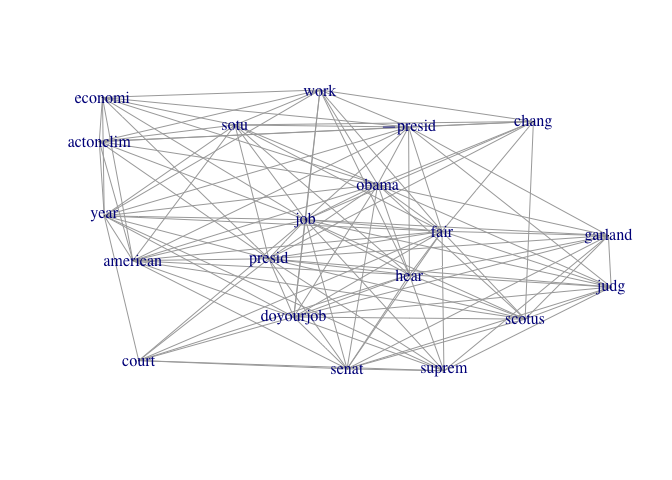
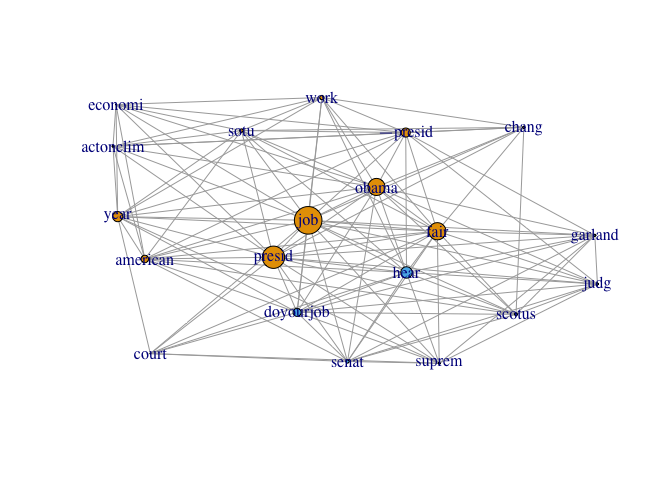
Added modularity and cluster size

Changed region(s): [[0.0938, 0.1562, 0.9375, 0.7812]]

diff --git a/twitter_net.md b/twitter_net.md
@@ -1,4 +1,4 @@
-# Twitter_term_document_matrix
+# Twitter term-document-matrix
 Hagai Levi  
 9 April 2016  
 
@@ -6,6 +6,10 @@ Hagai Levi
 Based on http://www.rdatamining.com/examples/text-mining
 
 
+```r
+setwd('/Users/hagai_lvi/tmp/data_scientist/assignment_3')
+source('./credentials.R')
+```
 
 
 ```r
@@ -13,10 +17,6 @@ library(twitteR)
 
 # set twitter credentials
 setup_twitter_oauth(consumer_key, consumer_secret, access_token, access_token_secret)
-```
-
-```
-## [1] "Using direct authentication"
 ```
 
 Now, we gather tweets of the user BarackObama
@@ -52,7 +52,7 @@ cat(sprintf("Matrix dimensions: %i cols, %i rows", ncol(df), nrow(df)))
 ```
 
 ```
-## Matrix dimensions: 16 cols, 308 rows
+## Matrix dimensions: 16 cols, 312 rows
 ```
 
 ```r
@@ -92,24 +92,24 @@ inspect(myDtm[20:30,20:30])
 
 ```
 ## <<TermDocumentMatrix (terms: 11, documents: 11)>>
-## Non-/sparse entries: 1/120
-## Sparsity           : 99%
+## Non-/sparse entries: 0/121
+## Sparsity           : 100%
 ## Maximal term length: 9
 ## Weighting          : term frequency (tf)
 ## 
-##             Docs
-## Terms        20 21 22 23 24 25 26 27 28 29 30
-##   adult       0  0  0  0  0  0  0  0  0  0  0
-##   advanc      0  0  0  0  0  0  0  0  0  0  0
-##   afford      0  0  0  0  0  0  0  0  0  0  0
-##   ago         0  0  0  0  0  0  0  0  0  0  0
-##   agre        0  0  0  0  0  0  0  0  0  0  0
-##   agreement   0  0  0  0  0  0  0  0  0  1  0
-##   ahead       0  0  0  0  0  0  0  0  0  0  0
-##   ain<U+2019>t  0  0  0  0  0  0  0  0  0  0  0
-##   almost      0  0  0  0  0  0  0  0  0  0  0
-##   also        0  0  0  0  0  0  0  0  0  0  0
-##   alway       0  0  0  0  0  0  0  0  0  0  0
+##                Docs
+## Terms           20 21 22 23 24 25 26 27 28 29 30
+##   ago            0  0  0  0  0  0  0  0  0  0  0
+##   agre           0  0  0  0  0  0  0  0  0  0  0
+##   agreement      0  0  0  0  0  0  0  0  0  0  0
+##   ahead          0  0  0  0  0  0  0  0  0  0  0
+##   ain<U+2019>t     0  0  0  0  0  0  0  0  0  0  0
+##   almost         0  0  0  0  0  0  0  0  0  0  0
+##   alreadi        0  0  0  0  0  0  0  0  0  0  0
+##   also           0  0  0  0  0  0  0  0  0  0  0
+##   alway          0  0  0  0  0  0  0  0  0  0  0
+##   america        0  0  0  0  0  0  0  0  0  0  0
+##   america<U+2019>  0  0  0  0  0  0  0  0  0  0  0
 ```
 
 Display words associated with obama and american
@@ -121,8 +121,8 @@ findAssocs(myDtm, 'obama', 0.30)
 
 ```
 ## $obama
-##       presid <U+2014>presid 
-##         0.66         0.54
+## <U+2014>presid       presid         sotu 
+##         0.61         0.57         0.42
 ```
 
 ```r
@@ -132,8 +132,8 @@ findAssocs(myDtm, 'american', 0.30)
 
 ```
 ## $american
-## httpstcoxtyztaa            auto 
-##            0.41            0.31
+##           cover httpstcoxtyztaa 
+##            0.44            0.44
 ```
 
 Convert to a term matrix
@@ -149,18 +149,18 @@ termDocMatrix[termDocMatrix>=1] <- 1
 termMatrix <- termDocMatrix %*% t(termDocMatrix)
 
 # inspect terms numbered 5 to 10
-termMatrix[5:10,5:10]
+termMatrix[15:20,15:20]
 ```
 
 ```
-##             Terms
-## Terms          <U+2014>take   <U+2014>vp   <U+2019>ll   <U+2019>re   <U+2019>ve abl
-##   <U+2014>take            1          0          0          0          0   0
-##   <U+2014>vp              0          1          1          1          0   0
-##   <U+2019>ll              0          1          3          1          0   0
-##   <U+2019>re              0          1          1          1          0   0
-##   <U+2019>ve              0          0          0          0          2   0
-##   abl                   0          0          0          0          0   2
+##          Terms
+## Terms     add address adult advanc afford ago
+##   add      11       0     0      0      0   0
+##   address   0       4     0      0      0   0
+##   adult     0       0     1      0      0   0
+##   advanc    0       0     0      2      0   0
+##   afford    0       0     0      0      3   0
+##   ago       0       0     0      0      0   3
 ```
 
 The corpus is large, and we can't see clearly a large graph so we are using only a few
@@ -216,3 +216,115 @@ plot(g, layout=lay, vertex.size=5, vertex.color=community$membership, asp=FALSE)
 ```
 
 ![](twitter_net_files/figure-html/unnamed-chunk-7-2.png)
+
+We got 2 communities. The size of each community:
+
+
+```r
+sizes(community)
+```
+
+```
+## Community sizes
+##  1  2 
+## 12  8
+```
+
+The modularity we got:
+
+```r
+modularity(community)
+```
+
+```
+## [1] 0.1143865
+```
+
+We want to show the betweenness of each term: 
+
+```r
+t(betweenness(g))
+```
+
+```
+##         obama   presid   <U+2014>presid     sotu doyourjob     fair    senat
+## [1,] 7.043687 9.198449       3.738528 1.413925  3.307576 7.096068 1.339286
+##      actonclim      job     year     hear     work   garland      judg
+## [1,] 0.6761905 11.37742 4.178571 4.686111 1.741703 0.8650794 0.8650794
+##        scotus    suprem     court     chang   economi american
+## [1,] 1.172222 0.7873377 0.2159091 0.9289683 0.2833333  3.08456
+```
+
+And show it on the graph, together with the clusters:
+
+```r
+plot(g, layout=lay, vertex.color=community$membership, vertex.size=betweenness(g), asp=FALSE)
+```
+
+![](twitter_net_files/figure-html/unnamed-chunk-11-1.png)
+
+Same goes for closeness:
+
+```r
+t(closeness(g))
+```
+
+```
+##           obama     presid   <U+2014>presid       sotu  doyourjob       fair
+## [1,] 0.04761905 0.04761905           0.04 0.03846154 0.04166667 0.04761905
+##           senat  actonclim        job year       hear       work
+## [1,] 0.03846154 0.03571429 0.05263158 0.04 0.04347826 0.03703704
+##         garland       judg     scotus     suprem      court      chang
+## [1,] 0.03703704 0.03703704 0.03703704 0.03571429 0.03333333 0.03448276
+##         economi american
+## [1,] 0.03448276     0.04
+```
+
+```r
+plot(g, layout=lay, vertex.color=community$membership, vertex.size=closeness(g), asp=FALSE)
+```
+
+![](twitter_net_files/figure-html/unnamed-chunk-12-1.png)
+
+And as closeness generates small values, we will increases the vertexes size:
+
+```r
+g.closeness <- closeness(g)
+g.closeness.normalized <- 10 * (g.closeness / min(g.closeness))
+t(g.closeness.normalized)
+```
+
+```
+##         obama   presid   <U+2014>presid     sotu doyourjob     fair    senat
+## [1,] 14.28571 14.28571             12 11.53846      12.5 14.28571 11.53846
+##      actonclim      job year     hear     work  garland     judg   scotus
+## [1,]  10.71429 15.78947   12 13.04348 11.11111 11.11111 11.11111 11.11111
+##        suprem court    chang  economi american
+## [1,] 10.71429    10 10.34483 10.34483       12
+```
+
+```r
+plot(g, layout=lay, vertex.color=community$membership, vertex.size=g.closeness.normalized, asp=FALSE)
+```
+
+![](twitter_net_files/figure-html/unnamed-chunk-13-1.png)
+
+Same goes for eigen values:  
+**For eigenvalues, we will not show a graph, due to negative values.**
+
+```r
+eigen_values <- eigen(frequentTermMatrix)$values
+names(eigen_values) <- colnames(frequentTermMatrix)
+eigen_values
+```
+
+```
+##         obama        presid <U+2014>presid          sotu     doyourjob 
+##  1.420202e+01  5.779579e+00  3.021264e+00  2.066587e+00  1.715053e+00 
+##          fair         senat     actonclim           job          year 
+##  1.350975e+00  1.008737e+00  5.667674e-01  3.359059e-01  1.872261e-16 
+##          hear          work       garland          judg        scotus 
+##  1.227066e-16 -1.776357e-15 -1.738442e-01 -5.949431e-01 -7.581790e-01 
+##        suprem         court         chang       economi      american 
+## -9.208352e-01 -1.257237e+00 -1.548359e+00 -2.331891e+00 -2.461598e+00
+```
